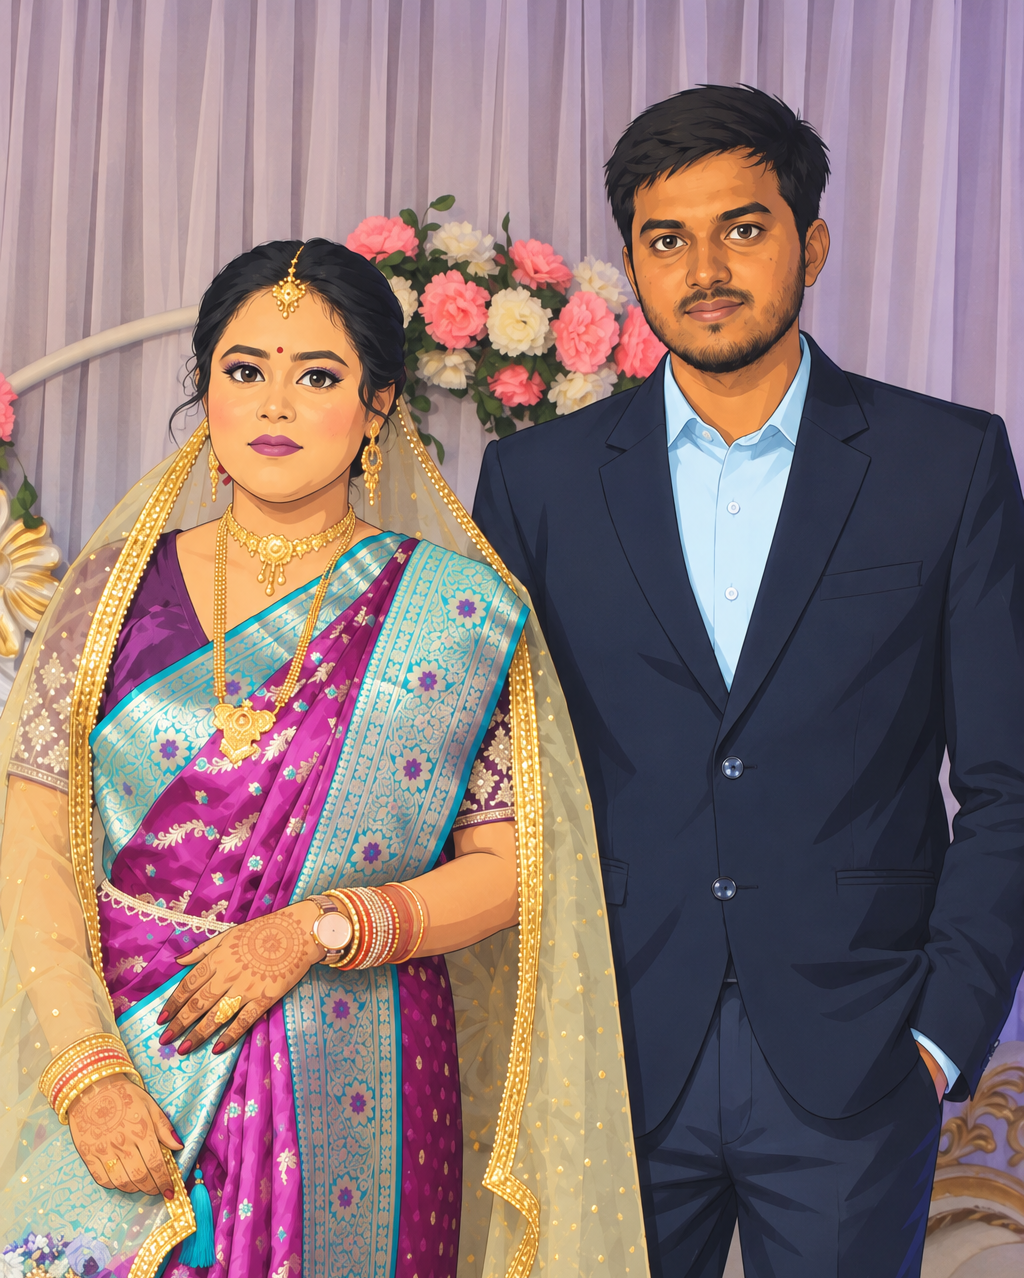
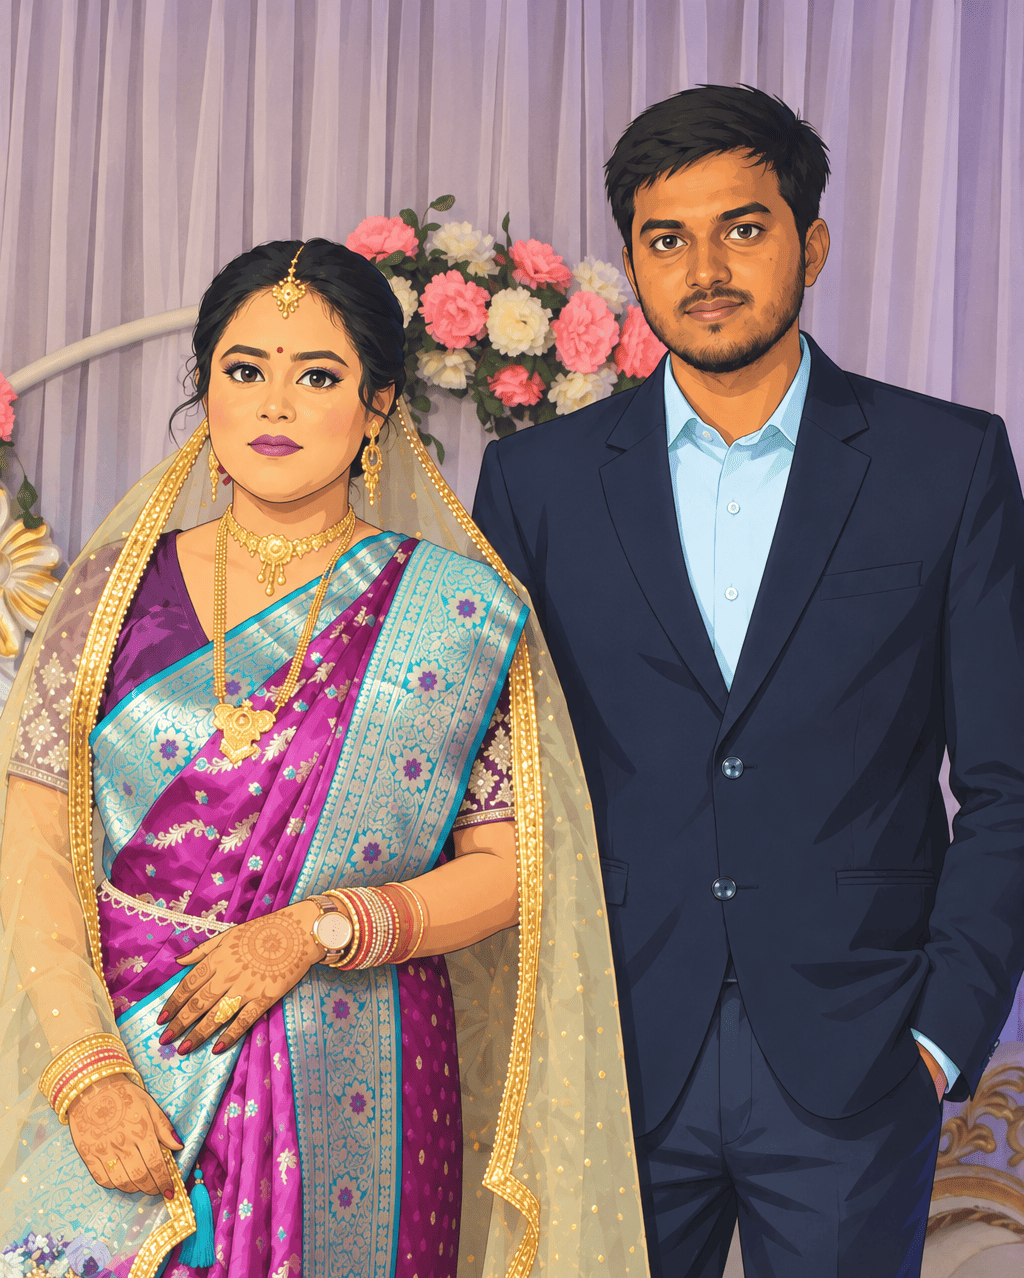
2nd commit

diff --git a/index.html b/index.html
@@ -17,8 +17,8 @@
       <a class="brand" href="#home" aria-label="Rakesh and Nourin home"><span>R</span><i>&</i><span>N</span></a>
       <nav class="nav-links" aria-label="Main navigation">
         <a href="#story">Home</a>
-        <a href="#intro">Intro</a>
-        <a href="#schedule">Schedule</a>
+        <a href="#couple">Intro</a>
+        <a href="#events">Schedule</a>
         <a href="#location">Location</a>
       </nav>
       <button class="music-button" id="musicToggle" type="button" aria-label="Toggle music" aria-pressed="false"><span class="music-bars"><b></b><b></b><b></b></span></button>
@@ -30,7 +30,7 @@
           <div class="hero-ornament" aria-hidden="true"><span></span><b></b><span></span></div>
           <div class="hero-details">
             <div class="hero-detail"><span class="calendar-icon" aria-hidden="true"></span><strong>Friday, October 23, 2026</strong></div>
-            <div class="hero-detail"><span class="clock-icon" aria-hidden="true"></span><strong>01:00 PM IST</strong></div>
+            <div class="hero-detail"><span class="clock-icon" aria-hidden="true"></span><strong>12:00 PM IST</strong></div>
           </div>
           <h1>Rakesh <em>weds</em> Nourin</h1>
           <div class="hero-rule" aria-hidden="true"></div>
@@ -58,41 +58,43 @@
       <section class="couple-intro section-pad" id="couple">
         <div class="couple-intro-heading">
           <p class="schedule-kicker">Meet the couple</p>
-          <h2>Two hearts,<br><i>one lovely story.</i></h2>
+          <h2>Rakesh & Nourin</h2>
           <p>Get to know the bride and groom before we celebrate their beautiful beginning.</p>
         </div>
         <div class="couple-list">
           <article class="couple-card">
             <span class="couple-role">The groom</span>
-            <h3>Rakesh</h3>
-            <p>Steady, warm, and ready for forever.</p>
-            <button class="couple-button" type="button" data-person="rakesh">Meet Rakesh <span aria-hidden="true">&#8594;</span></button>
+            <h3>Md Rakesh Ali</h3>
+            <p>S/O - Md Muklesh Ali</p>
+            <p>From Malda, West Bengal</p>
+            <button class="couple-button" type="button" data-dialog="groomDialog">Meet the Groom <span aria-hidden="true">&#8594;</span></button>
           </article>
           <article class="couple-card couple-card-bride">
             <span class="couple-role">The bride</span>
-            <h3>Nourin</h3>
-            <p>Graceful, joyful, and the heart of this celebration.</p>
-            <button class="couple-button" type="button" data-person="nourin">Meet Nourin <span aria-hidden="true">&#8594;</span></button>
+            <h3>Nourin Biswas</h3>
+            <p>D/O - Jakir Hossain Biswas</p>
+            <p>From Murshidabad, West Bengal</p>
+            <button class="couple-button" type="button" data-dialog="brideDialog">Meet the Bride <span aria-hidden="true">&#8594;</span></button>
           </article>
         </div>
       </section>
 
       <section class="events section-pad" id="events">
-        <div class="schedule-heading"><p class="schedule-kicker">Save the Date</p><h2>Wedding Event<br>Schedule</h2><div class="schedule-ornament" aria-hidden="true"><span></span><b>♥</b><span></span></div></div>
+        <div class="schedule-heading"><h2>Wedding Events</h2><div class="schedule-ornament" aria-hidden="true"><span></span><b>♥</b><span></span></div></div>
         <div class="event-list">
           <article class="event-card event-saffron">
             <div class="event-top"><span class="event-number">01</span><span class="event-day">Thursday · 22nd October</span></div>
             <div class="event-icon">✦</div>
             <h3>Haldi & Mehendi</h3>
-            <p>A sunny afternoon of colour, laughter, and the people who made us who we are.</p>
-            <div class="event-meta"><span>7:00 PM</span><span>Own Residence</span></div>
+            <p>Haldi and Mehendi ceremonies are an integral part of the wedding celebrations, symbolizing the union of two souls.</p>
+            <div class="event-meta"><span>7:00 PM Onwards</span><span>Own Residence</span></div>
           </article>
           <article class="event-card event-rose">
             <div class="event-top"><span class="event-number">02</span><span class="event-day">Friday · 23rd October</span></div>
             <div class="event-icon">◌</div>
             <h3>Wedding Day</h3>
             <p>Our vows, beneath the open sky, with every beloved face in the audience.</p>
-            <div class="event-meta"><span>4:30 PM</span><span>Bagh-e-Afsana</span></div>
+            <div class="event-meta"><span>12:00 PM Onwards</span><span>Own Residence</span></div>
           </article>
           <!-- <article class="event-card event-indigo">
             <div class="event-top"><span class="event-number">03</span><span class="event-day">Saturday · 24th October</span></div>
@@ -105,32 +107,33 @@
       </section>
 
       <section class="gallery section-pad">
-        <div class="gallery-copy"><div class="section-label">03 <span></span> A little glimpse</div><h2>Made of<br><i>little moments.</i></h2></div>
+        <div class="gallery-copy">
+          <h2>Made of<br><i>little moments.</i></h2>
+        </div>
         <div class="gallery-grid">
           <img src="https://images.unsplash.com/photo-1519741497674-611481863552?auto=format&fit=crop&w=900&q=85" alt="Couple walking together outdoors" />
-          <img src="assets/img4.png" alt="Couple portrait with floral backdrop" />
+          <img src="assets/img2.png" alt="Couple portrait with floral backdrop" />
           <img src="assets/img5.png" alt="Wedding portrait with floral stage setup" />
         </div>
       </section>
 
       <section class="details section-shell" id="details">
         <div class="section-heading reveal">
-          <p class="section-number">02 / The day</p>
           <p class="eyebrow">Save the date</p>
-          <h2>Join us in a<br /><em>joyful celebration</em> of love.</h2>
+          <h2>Please join us in this<br /><em>joyful celebration.</em></h2>
         </div>
         <div class="details-grid">
           <article class="detail-card date-card reveal">
             <span class="card-kicker">The date</span>
             <p class="big-date">Friday<br /><em>23 October</em><br />2026</p>
-            <p class="muted">Ceremony begins at 1:00 pm<br />with blessings and festivities to follow</p>
+            <p class="muted">Ceremony begins at 12:00 pm<br />with blessings and festivities to follow</p>
             <button class="text-button" id="calendar-button" type="button">Add to calendar <span aria-hidden="true">↗</span></button>
           </article>
           <article class="detail-card venue-card reveal">
             <span class="card-kicker">The place</span>
             <p class="venue-name">Own<br /><em>Residence</em></p>
             <p class="muted">Jalangi-Murshidabad<br />West Bengal</p>
-            <a class="text-button" href="https://maps.google.com/?q=Jalangi+Murshidabad+West+Bengal" target="_blank" rel="noreferrer">View on map <span aria-hidden="true">↗</span></a>
+            <a class="text-button" href="https://maps.app.goo.gl/gBjnFm1xaBsv1ykr9?g_st=ac" target="_blank" rel="noreferrer">View on map <span aria-hidden="true">↗</span></a>
           </article>
         </div>
       </section>
@@ -138,7 +141,6 @@
       <section class="quote-band">
         <div class="quote-mark" aria-hidden="true">“</div>
         <blockquote>We cordially invite you to celebrate this special day as<br class="desktop-break"> the beginning of our journey.</blockquote>
-        <cite>— With wishes from our loved ones</cite>
       </section>
 
       <br>
@@ -156,21 +158,37 @@
       <section class="location section-pad" id="location">
         <div class="location-heading"><p class="location-kicker">Event Venue</p><h2>Location</h2><div class="location-ornament" aria-hidden="true"><span></span><b>⌖</b><span></span></div></div>
         <div class="location-card">
-          <div class="map-frame"><iframe title="Map showing Event Venue" src="https://www.google.com/maps?q=Ghoshpara+Sarvapalli,+Jalangi,+Murshidabad,+West+Bengal&output=embed" loading="lazy" referrerpolicy="no-referrer-when-downgrade"></iframe></div>
-          <div class="venue-info"><h3>Own Residence</h3><div class="venue-row"><span class="venue-icon">⌖</span><span>Ghoshpara Sarvapalli, Jalangi, Murshidabad, West Bengal</span></div><div class="venue-row"><span class="venue-icon">▣</span><span>Friday, October 23, 2026</span></div><div class="venue-row"><span class="venue-icon">◷</span><span>1:00 PM IST</span></div><a class="map-button" href="https://maps.app.goo.gl/gBjnFm1xaBsv1ykr9?g_st=ac" target="_blank" rel="noreferrer">View Map <span>↗</span></a></div>
+          <div class="map-frame"><iframe title="Map showing Event Venue" src="https://www.google.com/maps?q=24.159401,88.696753&output=embed" loading="lazy" referrerpolicy="no-referrer-when-downgrade"></iframe></div>
+          <div class="venue-info"><h3>Own Residence</h3><div class="venue-row"><span class="venue-icon">⌖</span><span>Ghoshpara Sarvapalli, Jalangi, Murshidabad, West Bengal</span></div><div class="venue-row"><span class="venue-icon">▣</span><span>Friday, October 23, 2026</span></div><div class="venue-row"><span class="venue-icon">◷</span><span>12:00 PM IST</span></div><a class="map-button" href="https://maps.app.goo.gl/gBjnFm1xaBsv1ykr9?g_st=ac" target="_blank" rel="noreferrer">View Map <span>↗</span></a></div>
         </div>
       </section>
 
       <section class="rsvp section-pad" id="rsvp">
-        <div class="rsvp-inner"><p class="script-intro">Save the date</p><h2>23rd Oct, 2026</h2><p>Please, do come. For you this is just another wedding but for us it's the only chance to celebrate this special moment with you.</p><button class="solid-button" id="rsvpOpen" type="button">Save to calendar</button></div>
+        <div class="rsvp-inner"><p class="script-intro">Save the date</p><h2>23rd Oct, 2026</h2><p>“Please do come. For you, it may be just another wedding, but for us, it’s the only chance to celebrate this special moment with you.”</p><button class="solid-button" id="rsvpOpen" type="button">Save to calendar</button></div>
       </section>
     </main>
 
-    <footer><div class="brand footer-brand"><span>R</span><i>&</i><span>N</span></div><p>Made with love · 2026</p><a href="#home">Back to top ↑</a></footer>
+    <footer><div class="brand footer-brand"><span>R</span><i>&</i><span>N</span></div><p>Made with love · 2026</p><p class="footer-rights">&copy; 2026 · All rights reserved.</p><a href="#home">Back to top ↑</a></footer>
   </div>
-
-  <dialog class="couple-dialog rsvp-dialog" id="coupleDialog"><button class="dialog-close" id="coupleClose" type="button" aria-label="Close introduction">×</button><p class="script-intro" id="coupleDialogRole">The groom</p><h2 id="coupleDialogName">Rakesh</h2><p class="couple-dialog-copy" id="coupleDialogCopy"></p><div class="couple-dialog-details"><p><span>Wedding day</span>Friday, October 23, 2026</p><p><span>Venue</span>Own Residence, Jalangi-Murshidabad</p></div></dialog>
-  <dialog class="rsvp-dialog" id="rsvpDialog"><button class="dialog-close" id="rsvpClose" type="button" aria-label="Close RSVP form">×</button><p class="script-intro">We hope to see you</p><h2>Send Your Wishes</h2><form id="rsvpForm"><label>Your name<input name="name" type="text" placeholder="e.g. Rohit Sharma" required /></label><label>Wish<input wish="wish" type="text" placeholder="Share your wishes..." required /></label><button class="solid-button" type="submit">Send Wish</button><p class="form-note" id="formNote"></p></form></dialog>
+  <small class="site-disclaimer">Disclaimer: This website is for informational purposes only. All the images used, are AI generated and belong to their respective owners.</small>
+  <dialog class="couple-dialog rsvp-dialog" id="groomDialog" aria-labelledby="groomDialogName">
+    <button class="dialog-close" type="button" aria-label="Close groom introduction">×</button>
+    <div class="couple-portrait-frame"><img src="assets/groom.JPG" alt="Portrait of Rakesh" /></div>
+    <p class="script-intro">The groom</p>
+    <h2 id="groomDialogName">Md Rakesh Ali</h2>
+    <p class="couple-dialog-copy">Father - Md Muklesh Ali</p>
+    <p class="couple-dialog-copy">Mother - Nurjahan Khatun</p>
+    <p class="couple-dialog-copy">Address - Dulalganj, Mothabari, Malda, West Bengal</p>
+  </dialog>
+  <dialog class="couple-dialog rsvp-dialog" id="brideDialog" aria-labelledby="brideDialogName">
+    <button class="dialog-close" type="button" aria-label="Close bride introduction">×</button>
+    <div class="couple-portrait-frame"><img src="assets/bride.jpeg" alt="Portrait of Nourin" /></div>
+    <p class="script-intro">The bride</p>
+    <h2 id="brideDialogName">Nourin Biswas</h2>
+    <p class="couple-dialog-copy">Father - Jakir Hossain Biswas</p>
+    <p class="couple-dialog-copy">Mother - Morjina Khatun</p>
+    <p class="couple-dialog-copy">Address - Ghoshpara Sarvapalli, Jalangi, Murshidabad, West Bengal</p>
+  </dialog>
   <script src="script.js"></script>
 
 </body>

diff --git a/script.js b/script.js
@@ -1,30 +1,14 @@
 const openInvitation = document.querySelector('#openInvitation');
 const rsvpOpen = document.querySelector('#rsvpOpen');
+const calendarButton = document.querySelector('#calendar-button');
 const dialog = document.querySelector('#rsvpDialog');
 const closeDialog = document.querySelector('#rsvpClose');
 const form = document.querySelector('#rsvpForm');
 const formNote = document.querySelector('#formNote');
 const musicToggle = document.querySelector('#musicToggle');
 const homeLinks = document.querySelectorAll('a[href="#home"]');
-const coupleDialog = document.querySelector('#coupleDialog');
-const coupleClose = document.querySelector('#coupleClose');
-const coupleDialogRole = document.querySelector('#coupleDialogRole');
-const coupleDialogName = document.querySelector('#coupleDialogName');
-const coupleDialogCopy = document.querySelector('#coupleDialogCopy');
-const coupleButtons = document.querySelectorAll('[data-person]');
-
-const coupleDetails = {
-  rakesh: {
-    role: 'The groom',
-    name: 'Rakesh',
-    copy: 'Rakesh brings a calm heart, a kind spirit, and a lifetime of memories waiting to be made with Nourin.'
-  },
-  nourin: {
-    role: 'The bride',
-    name: 'Nourin',
-    copy: 'Nourin brings warmth, grace, and a joy that makes every ordinary moment feel like a celebration.'
-  }
-};
+const coupleButtons = document.querySelectorAll('[data-dialog]');
+const coupleDialogs = document.querySelectorAll('.couple-dialog');
 
 openInvitation.addEventListener('click', () => {
   document.body.classList.add('invitation-opened');
@@ -38,32 +22,47 @@ homeLinks.forEach((link) => {
     window.scrollTo({ top: 0, behavior: 'smooth' });
   });
 });
-rsvpOpen.addEventListener('click', () => dialog.showModal());
-closeDialog.addEventListener('click', () => dialog.close());
-dialog.addEventListener('click', (event) => { if (event.target === dialog) dialog.close(); });
-coupleButtons.forEach((button) => {
-  button.addEventListener('click', () => {
-    const details = coupleDetails[button.dataset.person];
-    coupleDialogRole.textContent = details.role;
-    coupleDialogName.textContent = details.name;
-    coupleDialogCopy.textContent = details.copy;
-    coupleDialog.showModal();
+function redirectToGoogleCalendar() {
+  const eventParameters = new URLSearchParams({
+    action: 'TEMPLATE',
+    text: 'Wedding of Rakesh and Nourin',
+    dates: '20261023/20261024',
+    details: 'Wedding celebration. Ceremony begins at 1:00 PM IST.',
+    location: 'Own Residence, Ghoshpara Sarvapalli, Jalangi, Murshidabad, West Bengal',
+    ctz: 'Asia/Kolkata'
   });
+
+  const calendarUrl = `https://calendar.google.com/calendar/u/0/r/eventedit?${eventParameters}`;
+  window.open(calendarUrl, '_blank', 'noopener,noreferrer');
+}
+
+rsvpOpen.addEventListener('click', redirectToGoogleCalendar);
+calendarButton.addEventListener('click', redirectToGoogleCalendar);
+if (closeDialog && dialog) {
+  closeDialog.addEventListener('click', () => dialog.close());
+  dialog.addEventListener('click', (event) => { if (event.target === dialog) dialog.close(); });
+}
+coupleButtons.forEach((button) => {
+  button.addEventListener('click', () => document.querySelector(`#${button.dataset.dialog}`).showModal());
 });
-coupleClose.addEventListener('click', () => coupleDialog.close());
-coupleDialog.addEventListener('click', (event) => { if (event.target === coupleDialog) coupleDialog.close(); });
-form.addEventListener('submit', (event) => {
-  event.preventDefault();
-  const name = new FormData(form).get('name');
-  formNote.textContent = `Thank you, ${name}. Your RSVP is on its way to us.`;
-  form.reset();
+coupleDialogs.forEach((coupleDialog) => {
+  coupleDialog.querySelector('.dialog-close').addEventListener('click', () => coupleDialog.close());
+  coupleDialog.addEventListener('click', (event) => { if (event.target === coupleDialog) coupleDialog.close(); });
 });
+if (form && formNote) {
+  form.addEventListener('submit', (event) => {
+    event.preventDefault();
+    const name = new FormData(form).get('name');
+    formNote.textContent = `Thank you, ${name}. Your RSVP is on its way to us.`;
+    form.reset();
+  });
+}
 musicToggle.addEventListener('click', () => {
   const active = musicToggle.classList.toggle('playing');
   musicToggle.setAttribute('aria-pressed', String(active));
 });
 
-const weddingDate = new Date('2026-10-23T13:00:00+05:30');
+const weddingDate = new Date('2026-10-23T12:00:00+05:30');
 const countdownUnits = {
   days: document.querySelector('[data-unit="days"]'),
   hours: document.querySelector('[data-unit="hours"]'),

diff --git a/style.css b/style.css
@@ -590,6 +590,9 @@ body.invitation-opened .hero {
   margin: 0 0 4px;
   color: var(--coral);
   font: 36px/1 var(--script);
+  font-weight: 600;
+  letter-spacing: 2px;
+  word-spacing: 4px;
 }
 .welcome h2,
 .events h2,
@@ -609,7 +612,7 @@ body.invitation-opened .hero {
 .welcome-copy {
   max-width: 350px;
   padding-bottom: 5px;
-  color: var(--muted);
+  color: var(--ink);
   font-size: 16px;
 }
 .welcome-copy p {
@@ -716,6 +719,24 @@ body.invitation-opened .hero {
   font-size: 15px;
   line-height: 1.7;
 }
+.couple-dialog-copy:last-child {
+  margin-bottom: 0;
+}
+.couple-portrait-frame {
+  width: 160px;
+  height: 190px;
+  margin: 0 auto 22px;
+  overflow: hidden;
+  border-radius: 16px;
+  box-shadow: 0 8px 18px rgba(44, 29, 29, 0.2);
+}
+.couple-portrait-frame img {
+  display: block;
+  width: 100%;
+  height: 100%;
+  object-fit: cover;
+  object-position: center;
+}
 .couple-dialog-details {
   padding-top: 18px;
   border-top: 1px solid var(--line);
@@ -743,7 +764,7 @@ body.invitation-opened .hero {
 .schedule-kicker {
   margin: 0 0 8px;
   color: var(--coral);
-  font-size: 12px;
+  font-size: 20px;
   font-weight: 600;
 }
 .schedule-heading h2 {
@@ -846,7 +867,9 @@ body.invitation-opened .hero {
 }
 .event-list {
   display: grid;
-  grid-template-columns: repeat(3, 1fr);
+  grid-template-columns: repeat(2, minmax(0, 1fr));
+  max-width: 1050px;
+  margin-inline: auto;
   gap: 14px;
 }
 .event-card {
@@ -920,9 +943,10 @@ body.invitation-opened .hero {
 #details .section-heading {
   display: flex;
   align-items: flex-end;
-  justify-content: space-between;
+  justify-content: center;
   gap: 32px;
   margin-bottom: 62px;
+  text-align: center;
 }
 #details .section-heading h2 {
   color: var(--ink);
@@ -1241,6 +1265,12 @@ footer {
   background: var(--ink);
   color: white;
 }
+.site-disclaimer {
+  display: block;
+  padding: 12px clamp(22px, 8vw, 130px);
+  background: var(--ink);
+  color: white;
+}
 .footer-brand {
   font-size: 18px;
 }
@@ -1248,6 +1278,7 @@ footer {
   font-size: 20px;
 }
 .footer-brand + p,
+.footer-rights,
 footer > a {
   color: rgba(255, 255, 255, 0.52);
   font-size: 10px;
@@ -1264,6 +1295,12 @@ footer > a {
   background: var(--paper);
   color: var(--ink);
   box-shadow: 0 20px 80px rgba(0, 0, 0, 0.25);
+}
+.couple-dialog {
+  border-radius: 10px;
+}
+.couple-dialog[open] {
+  animation: rise 0.9s ease both;
 }
 .rsvp-dialog::backdrop {
   background: rgba(17, 31, 35, 0.7);
@@ -1402,8 +1439,9 @@ footer > a {
   .hero h1 em {
     display: block;
     margin: 8px 0;
-    font-size: 0.72em;
-    color: #d76a7b;
+    font-weight: 600;
+    font-size: 0.80em;
+    text-shadow: 0 1px 0 rgba(255, 253, 249, 0.95), 0 2px 8px rgba(255, 253, 249, 0.7);
   }
   .hero-rule {
     margin: 18px 0 24px;
